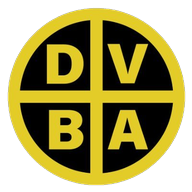
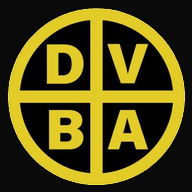
v9.77 · Fixes liberación de memoria y fondo de icono de app

diff --git a/dvba_campo_lite.html b/dvba_campo_lite.html
@@ -356,7 +356,7 @@ footer .fb .cnt{background:var(--ro);color:#fff;font-size:9px;padding:1px 6px;bo
 // Comparte auth, storage y BD con dvba_campo.html.
 // ═══════════════════════════════════════════════════════════════════
 
-const APP_VER = 'v9.76';
+const APP_VER = 'v9.77';
 const SUPA_URL = 'https://txjlfpffyzuhdqtfhlmc.supabase.co';
 const SUPA_KEY = 'eyJhbGciOiJIUzI1NiIsInR5cCI6IkpXVCJ9.eyJpc3MiOiJzdXBhYmFzZSIsInJlZiI6InR4amxmcGZmeXp1aGRxdGZobG1jIiwicm9sZSI6ImFub24iLCJpYXQiOjE3NzI1NDY5ODQsImV4cCI6MjA4ODEyMjk4NH0.LEqkMHh_t4TUb-2rKOlGmZmKTAw9mRrfL63UxK7LGNc';
 const BUCKET = 'relevamientos';
@@ -594,8 +594,10 @@ function iniciarCaptura(){
     e.target.value = '';  // reset input para permitir misma foto de nuevo
     // Snapshot del GPS al momento de la foto
     _gpsCuandoSaco = { lat:_gpsLat, lng:_gpsLng, acc:_gpsAcc, alt:_gpsAlt, ts:Date.now() };
-    // Comprimir la foto (misma estrategia que dvba_campo.html: 1200px q=0.75, más agresivo por PLAN_STORAGE)
-    _fotoActual = await comprimir(file, 1200, 0.75);
+    // v9.77 · Bajado de 1200/0.75 a 1000/0.72 para reducir el pico de RAM
+    // (celulares low-RAM se cierran con "memoria insuficiente" al volver de
+    // la cámara nativa — la PWA queda con muy poca memoria disponible).
+    _fotoActual = await comprimir(file, 1000, 0.72);
     // Mostrar preview
     $('prevImg').src = _fotoActual;
     $('prevGps').textContent = 'Lat ' + fmtCoord(_gpsCuandoSaco.lat) + '   Lng ' + fmtCoord(_gpsCuandoSaco.lng);
@@ -606,27 +608,43 @@ function iniciarCaptura(){
     $('preview').classList.add('on');
   });
 }
+// v9.77 · Compresión low-memory · usar URL.createObjectURL en vez de
+// FileReader.readAsDataURL. El FileReader carga TODO el archivo en memoria
+// como string base64 (duplica el tamaño del archivo raw), lo cual sumado a
+// la memoria que ya ocupa Chrome + la foto decodificada en canvas es lo que
+// termina matando la app en celulares con RAM limitada. createObjectURL solo
+// mantiene un puntero al Blob, no lo copia. Además liberamos canvas e img
+// explícitamente para forzar GC lo antes posible.
 function comprimir(file, maxPx, q){
   return new Promise((res, rej) => {
-    const fr = new FileReader();
-    fr.onload = e => {
-      const img = new Image();
-      img.onload = () => {
+    const url = URL.createObjectURL(file);
+    const img = new Image();
+    let c = null;
+    function limpiar(){
+      try { URL.revokeObjectURL(url); } catch(e){}
+      try { if (c){ c.width = 0; c.height = 0; c = null; } } catch(e){}
+      try { img.src = ''; } catch(e){}
+    }
+    img.onload = () => {
+      try {
         let w = img.width, h = img.height;
         if (w > maxPx || h > maxPx){
           if (w > h){ h = Math.round(h*maxPx/w); w = maxPx; }
           else       { w = Math.round(w*maxPx/h); h = maxPx; }
         }
-        const c = document.createElement('canvas');
+        c = document.createElement('canvas');
         c.width = w; c.height = h;
-        c.getContext('2d').drawImage(img, 0, 0, w, h);
-        res(c.toDataURL('image/jpeg', q));
-      };
-      img.onerror = rej;
-      img.src = e.target.result;
+        const ctx = c.getContext('2d');
+        ctx.imageSmoothingEnabled = true;
+        ctx.imageSmoothingQuality = 'medium';  // 'high' ocupa más RAM
+        ctx.drawImage(img, 0, 0, w, h);
+        const dataUrl = c.toDataURL('image/jpeg', q);
+        limpiar();
+        res(dataUrl);
+      } catch(e){ limpiar(); rej(e); }
     };
-    fr.onerror = rej;
-    fr.readAsDataURL(file);
+    img.onerror = () => { limpiar(); rej(new Error('No se pudo cargar la imagen')); };
+    img.src = url;
   });
 }
 function lRepetir(){

diff --git a/sw.js b/sw.js
@@ -2,6 +2,7 @@
    DVBA Campo · Service Worker v3.4
    Network-first + offline fallback + auto-purge de 404
 
+   v3.15: bump versión (v9.77) · lite low-memory · compresión con URL.createObjectURL (evita duplicar archivo en base64 en RAM) + 1000px/q=0.72 + liberación explícita de canvas. Fix crashes 'memoria insuficiente' al volver de la cámara nativa en celulares low-RAM.
    v3.14: bump versión (v9.76) · fixes lite/full · GPS auto-prompt (getCurrentPosition en arranque) + botón cámara circular con aspect-ratio + install prompt con fallback manual (aparece aunque Chrome no dispare beforeinstallprompt).
    v3.13: bump versión (v9.75) · fix RP30 progresivas — recalibrado bundle con mojones oficiales corregidos (progIni 262.60, progFin 435.12) + gap real RN205 incorporado.
    v3.12: bump versión (v9.74) · modal de instalación PWA prominente en lite y full.
@@ -17,7 +18,7 @@
    v3.2: CACHE_URLS relativas para /DVBA/ subpath en GitHub Pages.
    ══════════════════════════════════════════════════ */
 
-const CACHE_NAME = 'dvba-campo-v9.76';
+const CACHE_NAME = 'dvba-campo-v9.77';
 const SYNC_TAG   = 'dvba-sync-registros';
 const SUPA_URL   = 'https://txjlfpffyzuhdqtfhlmc.supabase.co';
 const SUPA_KEY   = 'eyJhbGciOiJIUzI1NiIsInR5cCI6IkpXVCJ9.eyJpc3MiOiJzdXBhYmFzZSIsInJlZiI6InR4amxmcGZmeXp1aGRxdGZobG1jIiwicm9sZSI6ImFub24iLCJpYXQiOjE3NzI1NDY5ODQsImV4cCI6MjA4ODEyMjk4NH0.LEqkMHh_t4TUb-2rKOlGmZmKTAw9mRrfL63UxK7LGNc';
